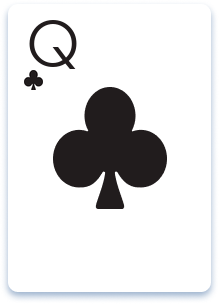
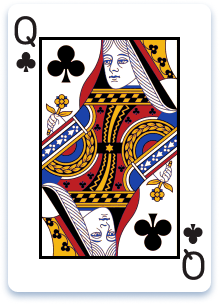
Keep the painted J, Q and K
The new artwork only covers A and 2 to 10, and drawing the court cards
from each suit's Ace to match it lost their illustrations, which was not
wanted. They are restored byte for byte, and the build script no longer
writes them.

diff --git a/scripts/build-card-faces.py b/scripts/build-card-faces.py
@@ -1,29 +1,22 @@
 """
 Builds the card faces from the new artwork in "Component 5".
 
-Two things are added to the supplied art:
+The folder holds A and 2 to 10. J, Q and K keep their painted illustrations and
+this script leaves them alone.
 
-* A small suit glyph under the corner rank. The fanned hand on a phone shows
-  only the left edge of a card, and the supplied faces carry the suit in the
-  middle only, so K of spades and K of clubs would look the same there.
-* J, Q and K, which the folder does not contain. They are drawn from the suit's
-  own Ace, keeping its centre pip and replacing only the corner rank, so they
-  stay in the same style as the rest of the deck.
+One thing is added to the supplied art: a small suit glyph under the corner
+rank. The fanned hand on a phone shows only the left edge of a card, and the
+supplied faces carry the suit in the middle only, so K of spades and K of clubs
+would look the same there.
 """
-from PIL import Image, ImageDraw, ImageFont
+from PIL import Image
 import pathlib
 
 SRC = pathlib.Path("Component 5")
 OUT = pathlib.Path("public/cards")
 SUITS = {"Clubs": "clubs", "Diamonds": "diamonds", "Hearts": "hearts", "Spades": "spades"}
 NUMBERS = {"Ace": "A", "2": "2", "3": "3", "4": "4", "5": "5", "6": "6", "7": "7", "8": "8", "9": "9", "10": "10"}
-COURT = ("J", "Q", "K")
 
-BLACK = (33, 28, 29, 255)
-RED = (188, 30, 36, 255)
-FONT = ImageFont.truetype("C:/Windows/Fonts/GOTHIC.TTF", 62)  # Century Gothic, the face's own font
-RANK_LEFT, BASELINE = 26, 66     # measured from the supplied cards
-CLEAR_BOX = (18, 12, 96, 78)     # the corner rank, well clear of the centre pip
 PIP_AT, PIP_H = (24, 70), 20     # the corner suit glyph, in the gap left of the centre pip
 
 
@@ -48,21 +41,10 @@ def corner_pip(ace):
 
 made = 0
 for folder, suit in SUITS.items():
-    ace = Image.open(SRC / folder / "Ace.png").convert("RGBA")
-    pip = corner_pip(ace)
-    colour = RED if suit in ("hearts", "diamonds") else BLACK
+    pip = corner_pip(Image.open(SRC / folder / "Ace.png").convert("RGBA"))
 
     for source, rank in NUMBERS.items():
         card = Image.open(SRC / folder / f"{source}.png").convert("RGBA")
-        card.alpha_composite(pip, PIP_AT)
-        card.save(OUT / f"{suit}-{rank}.png")
-        made += 1
-
-    for rank in COURT:
-        card = ace.copy()
-        draw = ImageDraw.Draw(card)
-        draw.rectangle(CLEAR_BOX, fill=(255, 255, 255, 255))
-        draw.text((RANK_LEFT, BASELINE), rank, font=FONT, fill=colour, anchor="ls")
         card.alpha_composite(pip, PIP_AT)
         card.save(OUT / f"{suit}-{rank}.png")
         made += 1
